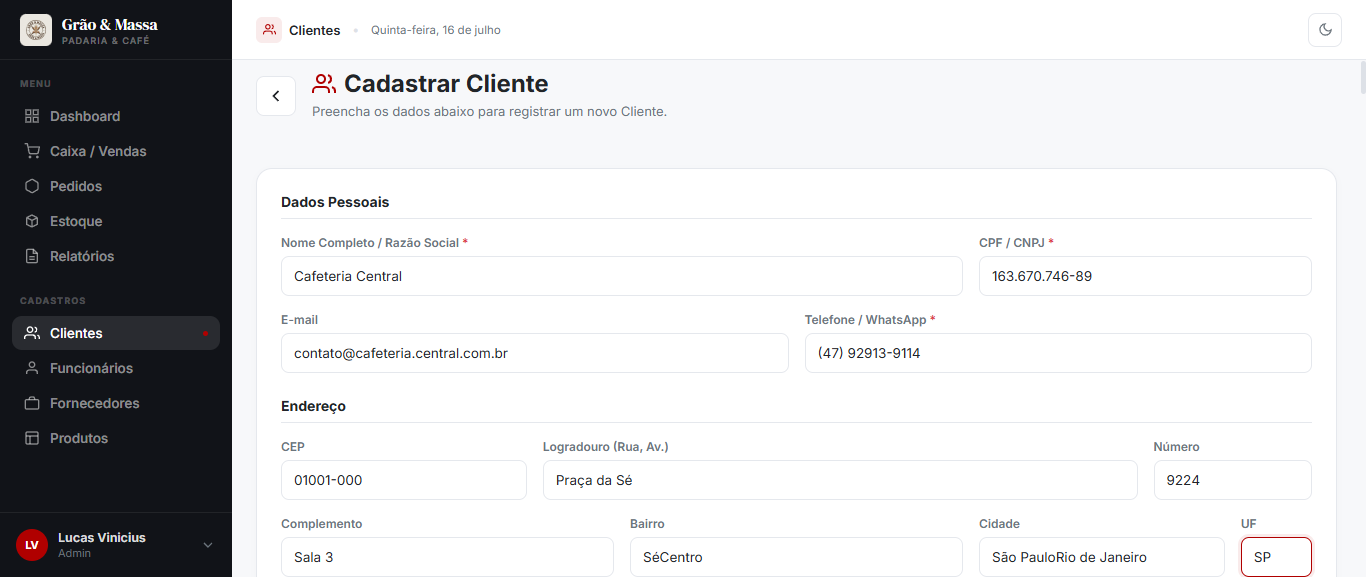
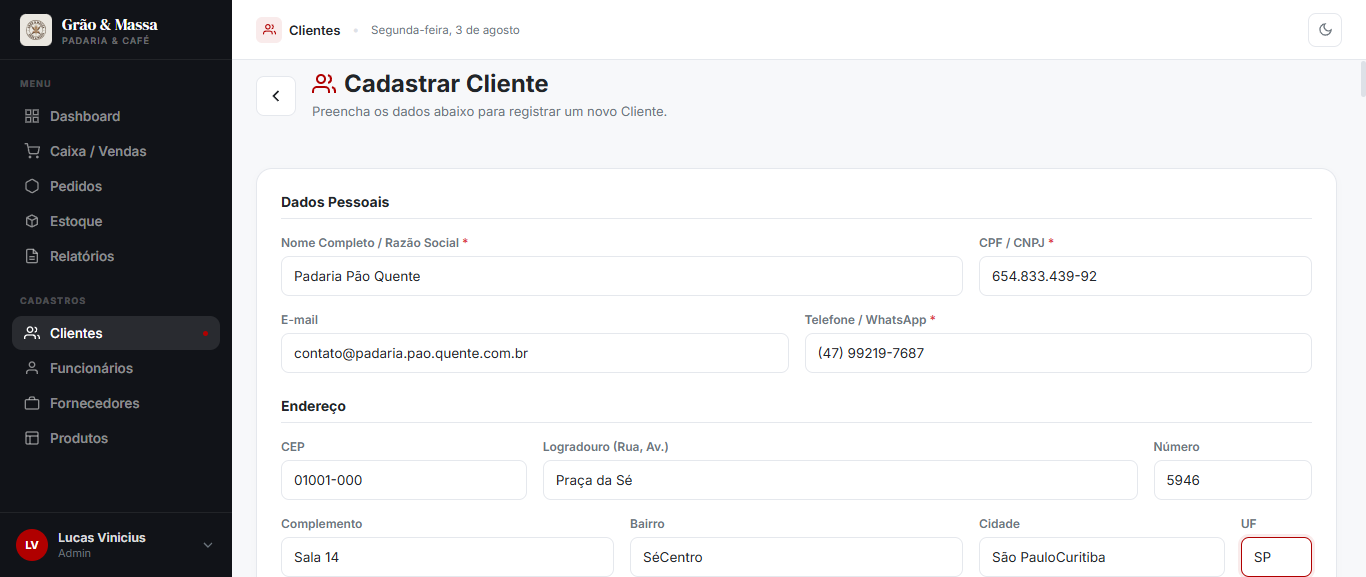
Commit correcao
Corrigido pequenas coisas

diff --git a/TesteCadastroClientes/dashboard.html b/TesteCadastroClientes/dashboard.html
@@ -24,8 +24,8 @@
             <div class="container">
                 <h1>Relatório de Automação: Cadastro de Clientes</h1>
                 <div class="summary">
-                    <div class="card"><h3>Total Cadastros</h3><h2>2</h2></div>
-                    <div class="card"><h3 class="status-sucesso">Sucessos</h3><h2>2</h2></div>
+                    <div class="card"><h3>Total Cadastros</h3><h2>1</h2></div>
+                    <div class="card"><h3 class="status-sucesso">Sucessos</h3><h2>1</h2></div>
                     <div class="card"><h3 class="status-falha">Falhas</h3><h2>0</h2></div>
                 </div>
                 <table>
@@ -41,16 +41,9 @@
         
                 <tr>
                     <td>1</td>
-                    <td>Cafeteria Central</td>
+                    <td>Restaurante Saboroso</td>
                     <td class="status-sucesso">Sucesso</td>
                     <td><a class="img-link" href="cadastro_cliente_1.png" target="_blank">Visualizar Screenshot</a></td>
-                </tr>
-            
-                <tr>
-                    <td>2</td>
-                    <td>Cafeteria Central</td>
-                    <td class="status-sucesso">Sucesso</td>
-                    <td><a class="img-link" href="cadastro_cliente_2.png" target="_blank">Visualizar Screenshot</a></td>
                 </tr>
             
                     </tbody>

diff --git a/PHP/buscar_cliente.php b/PHP/buscar_cliente.php
@@ -1,39 +1,42 @@
 <?php
-
+// Define que a resposta desta página será no formato JSON
 header('Content-Type: application/json');
-
 
 include('conexao.php'); 
 
-
+// Verifica se o parâmetro 'cpf' 
 if (isset($_GET['cpf'])) {
     
+    // Protege o banco de dados contra SQL Injection (limpa o dado recebido)
     $cpf = mysqli_real_escape_string($conn, $_GET['cpf']);
-    
     
     $sql = "SELECT id, nome_razao_social 
             FROM clientes 
             WHERE REPLACE(REPLACE(REPLACE(cpf_cnpj, '.', ''), '-', ''), '/', '') = '$cpf' 
-            LIMIT 1";
+            LIMIT 1"; // LIMIT 1 
             
+    // Executa a consulta 
     $result = mysqli_query($conn, $sql);
 
-    
+    // Verifica se a consulta funcionou e se encontrou 
     if ($result && mysqli_num_rows($result) > 0) {
         $cliente = mysqli_fetch_assoc($result);
         
+        // Converte os dados encontrados JSON e envia como resposta
         echo json_encode([
             'sucesso' => true, 
             'nome' => $cliente['nome_razao_social'], 
             'id' => $cliente['id']
         ]);
     } else {
+        // Resposta caso o banco de dados 
         echo json_encode([
             'sucesso' => false, 
             'mensagem' => 'Cliente não encontrado'
         ]);
     }
 } else {
+    // Resposta caso o arquivo seja acessado sem o cpf
     echo json_encode([
         'sucesso' => false, 
         'mensagem' => 'CPF não informado'

diff --git a/visualizarCliente.php b/visualizarCliente.php
@@ -1,7 +1,5 @@
 <?php
-// ==========================================
 // 0. VERIFICAÇÃO DE SESSÃO (LOGIN)
-// ==========================================
 session_start();
 
 // Se não tiver um usuário logado, manda de volta pro login
@@ -14,16 +12,14 @@ if (!isset($_SESSION['usuario_id'])) {
 $nome_usuario = $_SESSION['usuario_nome'] ?? 'Usuário';
 $cargo_usuario = $_SESSION['usuario_cargo'] ?? 'Funcionário';
 
-// Lógica para pegar as iniciais do nome para o Avatar (Ex: Ana Luiza -> AL)
+// Lógica para pegar as iniciais do nome para o Avatar 
 $partes_nome = explode(' ', trim($nome_usuario));
 $iniciais = strtoupper(substr($partes_nome[0], 0, 1));
 if (count($partes_nome) > 1) {
     $iniciais .= strtoupper(substr(end($partes_nome), 0, 1));
 }
 
-// ==========================================
 // SISTEMA DE PERMISSÕES POR CARGO
-// ==========================================
 $permissoes = [
     'admin'   => ['dashboard', 'vendas', 'pedidos', 'estoque', 'relatorios', 'clientes', 'funcionarios', 'fornecedores', 'produtos'],
     'padeiro' => ['estoque', 'produtos'],

diff --git a/PHP/salvaProdutos.php b/PHP/salvaProdutos.php
@@ -1,7 +1,7 @@
 <?php
 include("conexao.php");
 
-// 1. RECEBIMENTO DOS DADOS DO FORMULÁRIO
+// RECEBIMENTO DOS DADOS DO FORMULÁRIO
 $opcao = $_GET['opcao'] ?? ''; 
 $id    = isset($_GET['id']) ? intval($_GET['id']) : 0; 
 
@@ -34,12 +34,10 @@ if (isset($_FILES['nImagem']) && $_FILES['nImagem']['error'] === UPLOAD_ERR_OK) 
     }
 
     if (move_uploaded_file($_FILES['nImagem']['tmp_name'], $pastaDestino . $nomeArquivo)) {
-        // GRAVA APENAS O NOME DO ARQUIVO no banco (ex: prod_6a3fcecc.jpg)
-        // igual aos registros já existentes (esfiha.jpg, pao_frances.jpg)
         $imagem_url = $nomeArquivo; 
     }
 } else {
-    // Se não enviou imagem nova (no UPDATE), mantém o nome da imagem antiga recebido no formulário
+    // Se não enviou imagem nova (no UPDATE)
     $imagem_antiga = $_POST['nImagemUrl'] ?? '';
     // Remove qualquer "uploads/" antigo que possa vir do campo oculto
     $imagem_url = str_replace(['uploads/', '../uploads/'], '', $imagem_antiga);

diff --git a/login.php b/login.php
@@ -1,11 +1,7 @@
 <?php
-// =========================================================================
-// 1. INICIALIZAÇÃO DA SESSÃO E CONEXÃO COM O BANCO DE DADOS
-// =========================================================================
 session_start();
 
-// Se a página for acessada diretamente pela URL (método GET), destruímos a sessão anterior
-// Isso garante que a tela de login sempre apareça.
+// Isso garante que a tela de login sempre apareça
 if ($_SERVER['REQUEST_METHOD'] === 'GET') {
     session_unset();
     session_destroy();
@@ -30,9 +26,9 @@ try {
     die("Erro de conexão com o banco de dados: " . $e->getMessage());
 }
 
-// =========================================================================
-// 2. PROCESSAMENTO DO FORMULÁRIO DE LOGIN (EXCLUSIVO PARA MD5)
-// =========================================================================
+
+//PROCESSAMENTO DO FORMULÁRIO DE LOGIN 
+
 $erro = '';
 
 if ($_SERVER['REQUEST_METHOD'] === 'POST') {

diff --git a/vendas.php b/vendas.php
@@ -11,7 +11,7 @@ if (!isset($_SESSION['usuario_id'])) {
 include("php/conexao.php");
 
 // Resgata os dados da sessão
-$id_usuario = $_SESSION['usuario_id']; // <-- Pegamos o ID para usar no fechamento da venda
+$id_usuario = $_SESSION['usuario_id']; 
 $nome_usuario = $_SESSION['usuario_nome'] ?? 'Usuário';
 $cargo_usuario = $_SESSION['usuario_cargo'] ?? 'Funcionário';
 
@@ -35,7 +35,6 @@ function podeAcessar($tela, $permissoes, $cargo) {
     return isset($permissoes[$cargo]) && in_array($tela, $permissoes[$cargo]);
 }
 
-// 3. BLOQUEIO DE ACESSO À PRÓPRIA PÁGINA
 // Se o cargo do usuário não tiver permissão para "vendas", ele é bloqueado
 if (!podeAcessar('vendas', $permissoes, $cargo_normalizado)) {
     header("Location: index.php?erro=acesso_negado");

diff --git a/Cadastrar_Cliente.php b/Cadastrar_Cliente.php
@@ -1,7 +1,5 @@
 <?php
-// ==========================================
-// 0. VERIFICAÇÃO DE SESSÃO (LOGIN)
-// ==========================================
+
 session_start();
 
 // Se não tiver um usuário logado, manda de volta pro login
@@ -21,9 +19,9 @@ if (count($partes_nome) > 1) {
     $iniciais .= strtoupper(substr(end($partes_nome), 0, 1));
 }
 
-// ==========================================
+
 // SISTEMA DE PERMISSÕES POR CARGO
-// ==========================================
+
 $permissoes = [
     'admin'   => ['dashboard', 'vendas', 'pedidos', 'estoque', 'relatorios', 'clientes', 'funcionarios', 'fornecedores', 'produtos'],
     'padeiro' => ['estoque', 'produtos'],

diff --git a/PHP/funcaoFuncionario.php b/PHP/funcaoFuncionario.php
@@ -34,7 +34,7 @@ function qtdFuncionarios(){
 
 function listaFuncionarios(){
     $html = "";
-    $sql = "SELECT * FROM funcionarios ORDER BY id DESC"; 
+    $sql = "SELECT * FROM funcionarios ORDER BY id ASC"; 
     
     include("conexao.php");
     $result = mysqli_query($conn, $sql);
